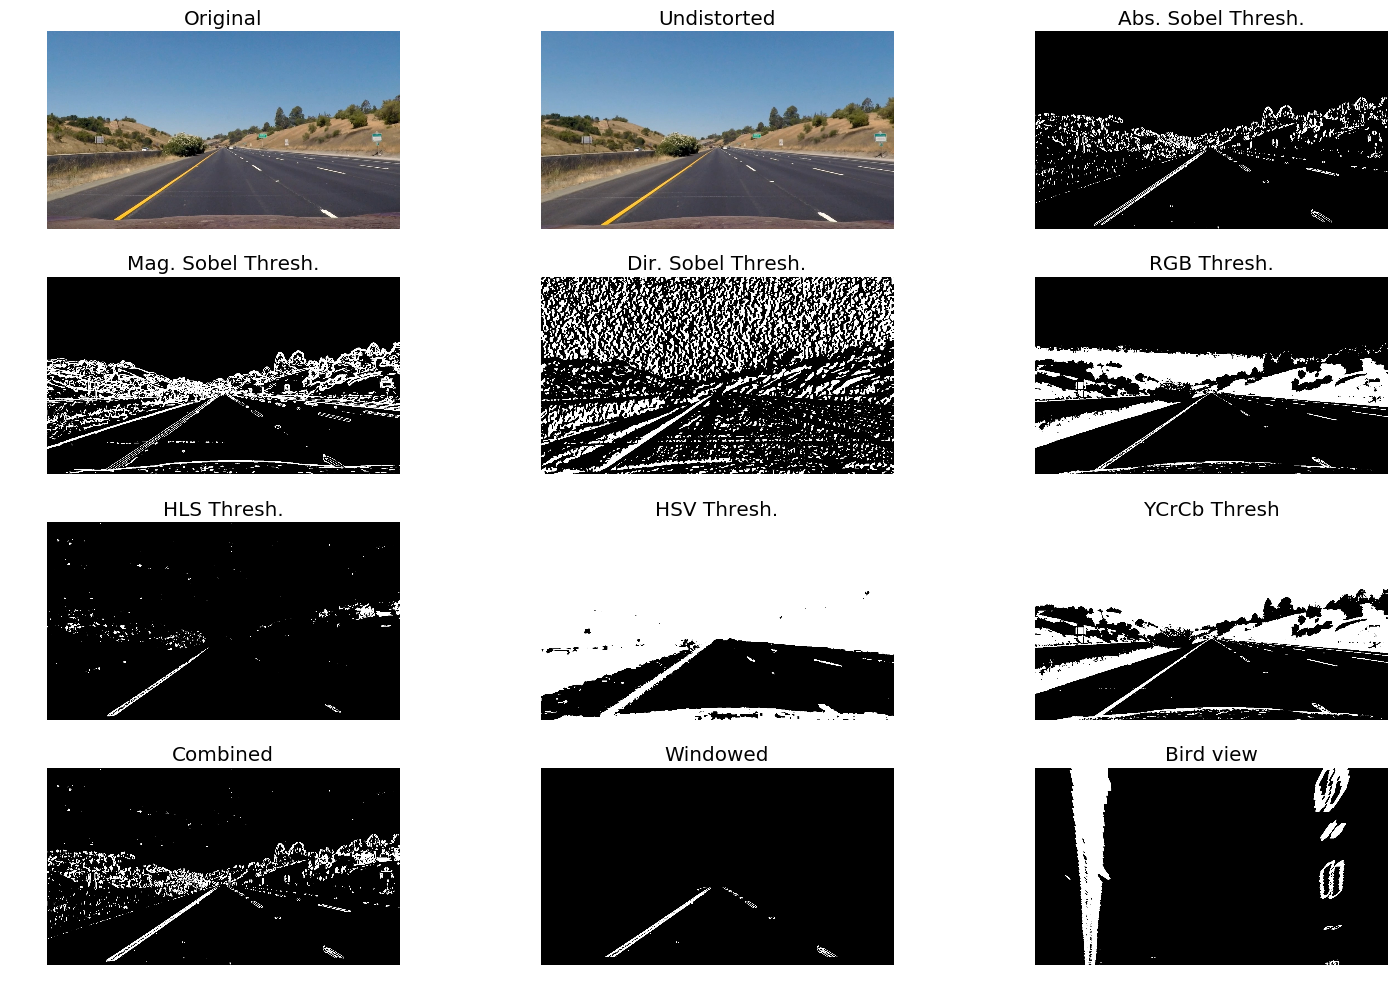
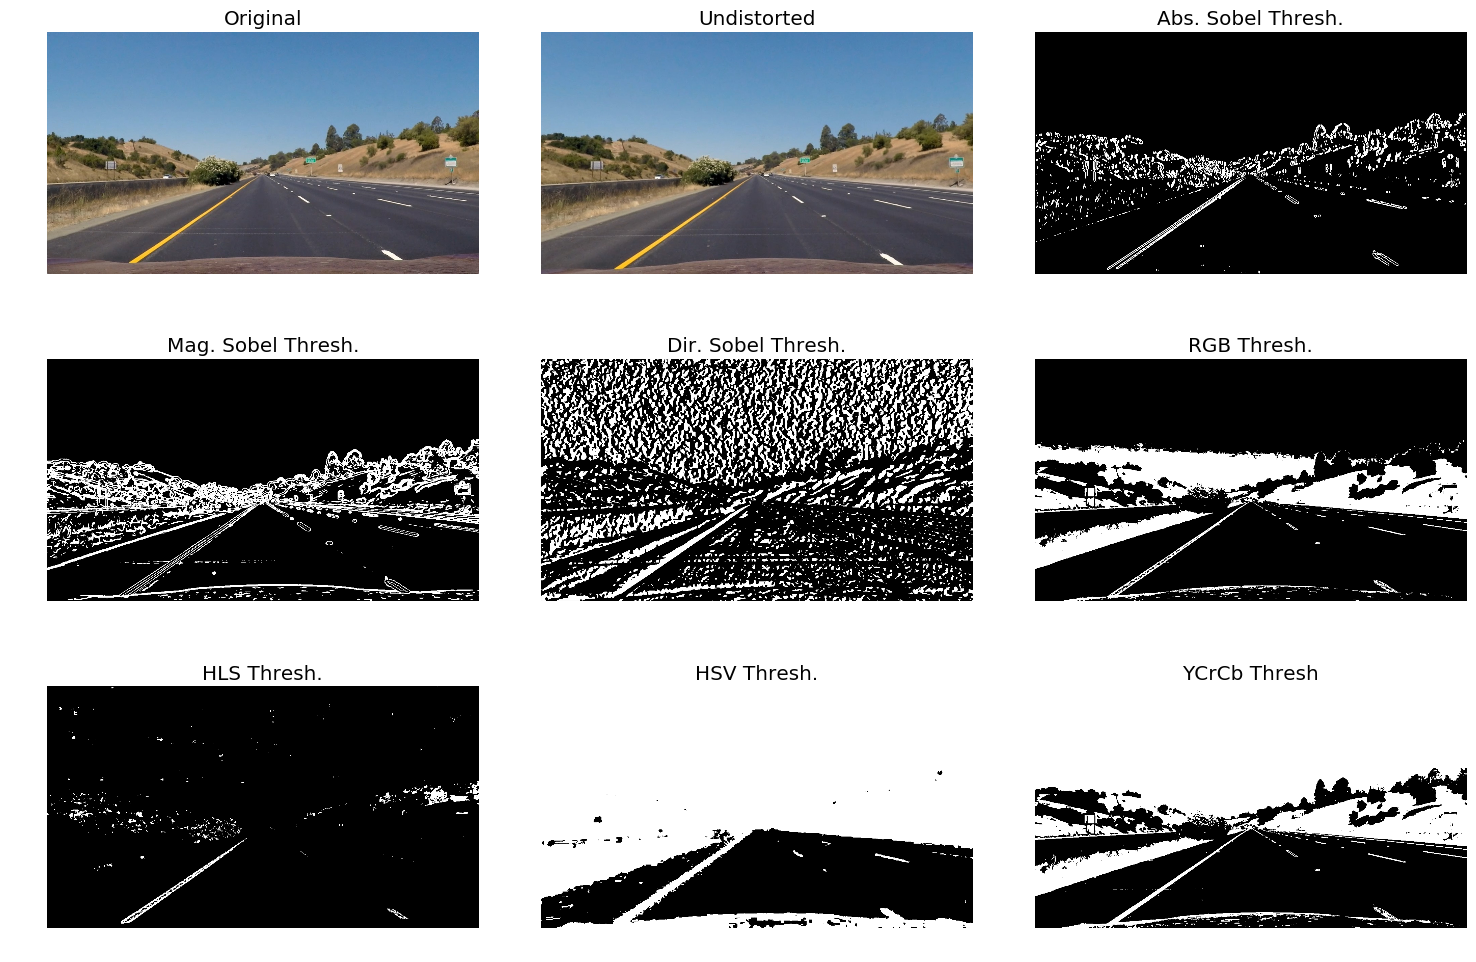
adjust transformations

diff --git a/exploratory.py b/exploratory.py
@@ -45,9 +45,7 @@ YCrCb_images = [YCrCb_thresh(undistorted_image, channel=YCrCb_thresh_channel, th
 combined_images = [combine_threshs(hls_thresh, abs_sobel_thresh) for hls_thresh, abs_sobel_thresh in zip(hls_thresh_images, abs_sobel_thresh_images)]
 windowed_images = [filterf(combined) for combined in combined_images]
 birds_view_images = [transform_image(windowed_image, M, img_size) for windowed_image in windowed_images]
-
-#ALL TRANSFORMATIONS
-progress = [images, undistorted_images, abs_sobel_thresh_images, mag_thresh_images, dir_thresh_images, rgb_thresh_images, hls_thresh_images, hsv_thresh_images, YCrCb_images, combined_images, windowed_images, birds_view_images]
+progress = [images, undistorted_images, abs_sobel_thresh_images, mag_thresh_images, dir_thresh_images, rgb_thresh_images, hls_thresh_images, hsv_thresh_images, YCrCb_images]
 
 
 #PLOT CALIBRATION
@@ -65,15 +63,13 @@ def plot_calibration():
 	ax2.axis('off')
 	#plt.show()
 	plt.savefig('image.png', bbox_inches='tight', cmap='gray')
-
 #plot_calibration()
-
 
 
 #PLOT PROGRESS
 def plot_progress(progress, test_image_number):
-	labels = ['Original', 'Undistorted', 'Abs. Sobel Thresh.', 'Mag. Sobel Thresh.', 'Dir. Sobel Thresh.', 'RGB Thresh.', 'HLS Thresh.', 'HSV Thresh.', 'YCrCb Thresh', 'Combined', 'Windowed', 'Bird view']
-	fig, axes = plt.subplots(nrows=4, ncols=3, figsize = (15,10))
+	labels = ['Original', 'Undistorted', 'Abs. Sobel Thresh.', 'Mag. Sobel Thresh.', 'Dir. Sobel Thresh.', 'RGB Thresh.', 'HLS Thresh.', 'HSV Thresh.', 'YCrCb Thresh']
+	fig, axes = plt.subplots(nrows=3, ncols=3, figsize = (15,10))
 	axes = axes.ravel()
 	fig.tight_layout()
 

diff --git a/README.md b/README.md
@@ -15,8 +15,8 @@ The goals/steps I'll explain in depth are:
 
 [//]: # (Image References)
 
-[image1]: ./readme_assets/original_images.png "Original images"
-[image2]: ./readme_assets/transformations.png "Transformations"
+[image1]: ./readme_assets/transformations.png "Transformations"
+[image2]: ./readme_assets/original_images.png "Original images"
 [image3]: ./readme_assets/combined_images.png "Combined images"
 [image4]: ./readme_assets/windowed_images.png "Windowed images"
 [image5]: ./readme_assets/birdsview_images.png "Birdsview images"
@@ -60,11 +60,11 @@ Ultimately, I found that using a combination of the the HLS threshold and magnit
 
 After applying these filters, I also utilized a filter/window to remove the area of the image where lane lines wouldn't be. 
 
-![alt text][image2]
+![alt text][image1]
 
 
 **Original images**
-![alt text][image1]
+![alt text][image2]
 
 
 **Multi-threshold binary image**
